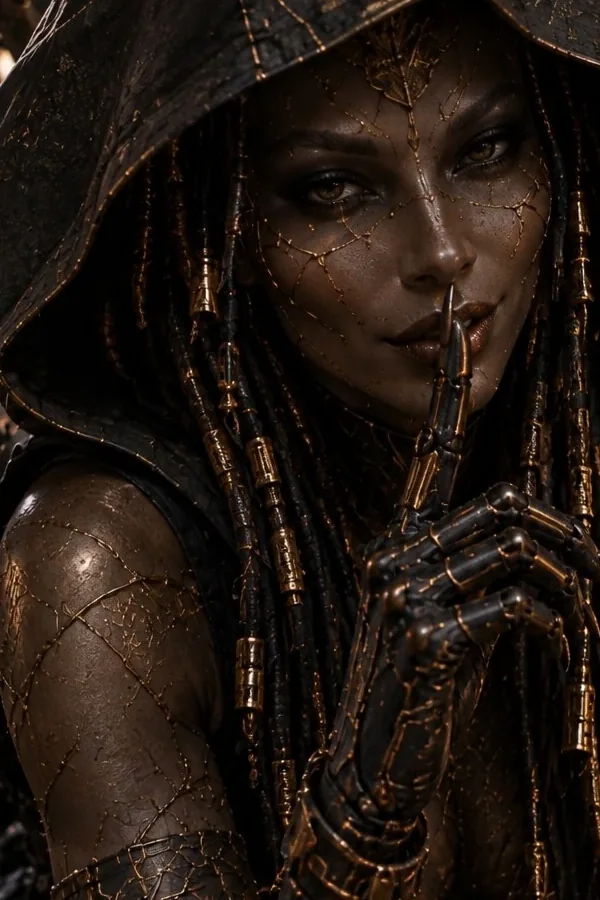
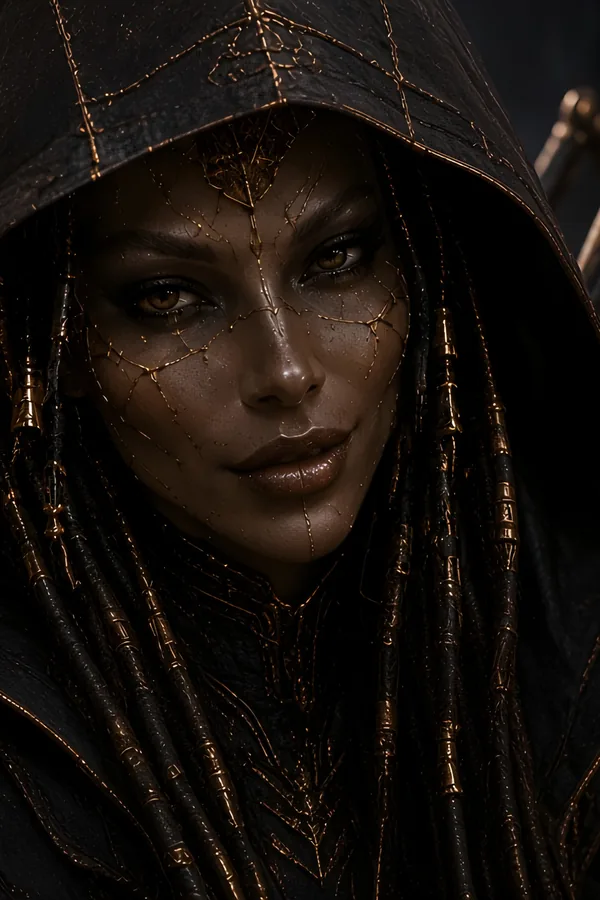
Tools drawer: pinned footer, no overlap, no gap; HD v2 Uttu portrait in the studio (#133)
* Tiroir des outils : pied fixe en bas (tâches, U*TTU, langue), liste qui défile seule, plus de trou après « Panorama 360° » ; portrait HD v2 d'Uttu dans le studio

- Tiroir (< 1024 px) : colonne flex tête / liste (overflow auto, marge basse) / pied avec fond et filet ; plus aucun chevauchement. Règle .u-drawer héritée (inset: 0) retirée : le tiroir s'ouvre à droite, sous le bouton menu.
- Menu Créer dans le tiroir : une famille = une liste (plus de colonne vide avec titre insécable).
- Accueil du studio : portrait HD v2 (sans doigt), 600/960 px en hauteur et 600/1200 px en large, srcset.
- e2e/tiroir-outils.spec.ts : 390×844, 844×390, 880×1024, haut/milieu/bas, cibles 44 px.

* Tiroir des outils : retour à gauche (glissement depuis la gauche), pied fixe et liste inchangés ; e2e vérifie le côté

diff --git a/src/components/app/app.css b/src/components/app/app.css
@@ -46,7 +46,6 @@
 .u-mark { display: inline-flex; align-items: center; gap: 10px; min-height: 44px; color: var(--fg); }
 .u-top-tools { display: flex; align-items: center; gap: 6px; min-width: 0; }
 .u-tool-short { display: none; }
-.u-drawer-lang { display: none; }
 @media (max-width: 799px) {
   .u-top { flex-wrap: nowrap; gap: 8px; padding: 6px 10px; min-height: 56px; }
   .u-mark { gap: 6px; flex: 0 0 auto; }
@@ -57,7 +56,6 @@
   .u-tool-label, .u-tool-full { display: none; }
   .u-tool-short { display: inline; letter-spacing: .04em; }
   .u-coffre, .u-credit { min-width: 44px; justify-content: center; padding-inline: 10px; }
-  .u-drawer-lang { display: block; }
 }
 .u-credit { display: inline-flex; align-items: center; gap: 6px; min-height: 44px; padding: 8px 14px; border: 1px solid var(--u-line-strong); border-radius: var(--radius-control); background: transparent; }
 .u-credit strong { font: 600 14px/1 var(--font-mono); font-variant-numeric: tabular-nums; color: var(--fg); }
@@ -365,7 +363,6 @@
   .u-head h1 { font-size: 44px; }
   .u-board { grid-template-columns: repeat(auto-fit, minmax(min(100%, 300px), 1fr)); }
   .u-prise-grid { grid-template-columns: minmax(180px, 280px) minmax(0, 1fr); align-items: start; }
-  .u-drawer-panel { width: min(460px, 100%); margin-left: auto; height: 100%; max-height: 100%; border-radius: 0; border-left: 1px solid var(--u-line); }
   .u-grid { grid-template-columns: repeat(4, minmax(0, 1fr)); }
   .u-plateau { display: none; }
   .u-rail-coffre { display: none; }
@@ -401,11 +398,6 @@
 .u-person, .u-place { display: grid; gap: 10px; align-content: start; padding: 12px; border: 1px solid var(--u-line); border-radius: 12px; background: var(--surface); }
 .u-place[data-selected="true"] { border-color: var(--u-gold); }
 .u-pick-row small { color: var(--u-sand); font-size: 12px; letter-spacing: .08em; text-transform: uppercase; }
-.u-drawer { position: fixed; inset: 0; z-index: 70; display: flex; }
-.u-drawer-back { flex: 1 1 auto; min-width: 0; min-height: 44px; border: 0; background: rgba(15, 15, 17, .62); }
-.u-drawer-panel { width: 100%; height: 100%; overflow: auto; padding: 16px 18px calc(24px + var(--u-safe)); background: var(--surface); border-left: 1px solid var(--u-line); }
-.u-drawer-body { display: grid; gap: 22px; }
-.u-drawer-body h3 { margin: 0; }
 .u-decor-grid { display: grid; grid-template-columns: repeat(2, minmax(0, 1fr)); gap: 12px; }
 .u-decor-card { position: relative; display: grid; gap: 8px; align-content: start; padding: 8px; border: 1px solid var(--u-line); border-radius: 12px; background: var(--surface); }
 .u-decor-card[data-selected="true"] { border-color: var(--u-gold); box-shadow: inset 0 0 0 1px var(--u-gold); }
@@ -1583,8 +1575,12 @@ button.u-outil-card:focus-visible { outline: 2px solid var(--fg); outline-offset
 .u-palette-body a, .u-assistant-list a { display: grid; gap: 2px; min-height: 44px; padding: 8px 10px; border-radius: 10px; color: var(--fg); text-decoration: none; }
 .u-palette-body a:hover, .u-palette-body a:focus-visible, .u-assistant-list a:hover { background: var(--hover); outline: none; }
 .u-palette-body a span, .u-assistant-list a span { font-size: 12px; color: var(--fg-2); }
-.u-drawer { position: absolute; top: 0; right: 0; bottom: 0; width: min(360px, 92vw); display: grid; grid-template-rows: auto minmax(0, 1fr) auto; gap: 8px; padding: 12px; background: var(--bg); border-left: 1px solid var(--u-line); overflow-y: auto; }
-.u-drawer-head { display: flex; align-items: flex-start; justify-content: space-between; gap: 8px; }
+/* Drawer (below 1024 px), on the left: fixed head, the list scrolls on its own, the footer stays pinned at the bottom and never covers the list. */
+.u-drawer { position: absolute; top: 0; left: 0; right: auto; bottom: 0; width: min(360px, 92vw); height: 100%; display: flex; flex-direction: column; background: var(--bg); border-right: 1px solid var(--u-line); overflow: hidden; animation: u-drawer-in .22s ease-out both; }
+@keyframes u-drawer-in { from { transform: translateX(-100%); } to { transform: none; } }
+@media (prefers-reduced-motion: reduce) { .u-drawer { animation: none; } }
+.u-drawer-head { flex: 0 0 auto; display: flex; align-items: flex-start; justify-content: space-between; gap: 8px; padding: 12px 12px 4px; }
+.u-drawer-nav { flex: 1 1 auto; min-height: 0; overflow-y: auto; overscroll-behavior: contain; -webkit-overflow-scrolling: touch; padding: 4px 12px 32px; scroll-padding-bottom: 32px; }
 .u-drawer-head .u-proj { flex: 1 1 auto; }
 .u-drawer-nav .u-top-links { flex-direction: column; align-items: stretch; }
 .u-drawer-nav .u-top-links > li > a, .u-drawer-nav .u-dd-toggle { width: 100%; justify-content: space-between; font-size: 16px; }
@@ -1597,8 +1593,13 @@ button.u-outil-card:focus-visible { outline: 2px solid var(--fg); outline-offset
 .u-lien.u-fold .u-avance-body { display: grid; gap: 10px; padding-bottom: 12px; }
 .u-lien.u-fold .u-avance-body[hidden] { display: none; }
 .u-empty .u-primary { min-height: 44px; display: inline-flex; align-items: center; }
-.u-drawer-foot { display: grid; gap: 8px; }
-.u-drawer-foot .u-secondary { min-height: 44px; }
+.u-drawer-foot { flex: 0 0 auto; position: relative; z-index: 1; display: flex; align-items: center; gap: 8px; padding: 10px 12px calc(10px + var(--u-safe)); border-top: 1px solid var(--u-line); background: var(--surface); }
+.u-drawer-foot .u-secondary { flex: 1 1 auto; min-width: 0; min-height: 44px; }
+.u-drawer-foot .u-tasks { flex: 0 0 auto; }
+.u-drawer-foot .u-tasks .u-top-icon { min-width: 44px; min-height: 44px; }
+.u-drawer-foot .u-tasks .u-tool-label { display: none; }
+.u-drawer-foot .u-lang { flex: 0 0 auto; }
+.u-drawer-foot .u-tasks-panel { top: auto; bottom: calc(100% + 8px); left: 0; right: auto; width: min(336px, calc(92vw - 24px)); max-height: 60dvh; }
 /* Assistant on the right, on every page. From 1600 px the page makes room for it;
    below, it floats over the page (closable) so CAST, the gallery and the stages are never squeezed or cut. */
 .u-assistant { position: fixed; z-index: 45; top: 64px; right: 0; bottom: 0; width: 320px; display: flex; flex-direction: column; gap: 12px; padding: 14px; border-left: 1px solid var(--u-line); background: var(--bg); overflow-y: auto; }

diff --git a/e2e/tiroir-outils.spec.ts b/e2e/tiroir-outils.spec.ts
@@ -1,0 +1,55 @@
+import { expect, test } from "@playwright/test";
+
+// The burger drawer (below 1024 px), on the left: the tool list scrolls on its own, the footer
+// (tasks, U*TTU, language) stays pinned at the bottom and never covers a tool,
+// and a family is one list with no empty heading gap.
+
+const SIZES = [[390, 844], [844, 390], [880, 1024]] as const;
+
+for (const [width, height] of SIZES) {
+  test(`tiroir ${width}×${height} : pied fixe, liste qui défile, aucun chevauchement`, async ({ page }) => {
+    await page.setViewportSize({ width, height });
+    await page.emulateMedia({ reducedMotion: "reduce" });
+    await page.goto("/studio");
+    await page.locator("[data-top-burger]").click();
+    const drawer = page.locator("[data-drawer]");
+    await drawer.locator("[data-top-menu=creer]").click();
+    await expect(drawer.locator("[data-mega-outil]").first()).toBeVisible();
+    await expect(drawer.locator(".u-mega h2").filter({ hasText: /^\s*$/ })).toHaveCount(0);
+    for (const pos of ["top", "middle", "bottom"] as const) {
+      const result = await drawer.evaluate((root, pos) => {
+        const nav = root.querySelector<HTMLElement>(".u-drawer-nav")!;
+        const max = nav.scrollHeight - nav.clientHeight;
+        nav.scrollTop = pos === "top" ? 0 : pos === "middle" ? max / 2 : max;
+        const box = nav.getBoundingClientRect();
+        const foot = root.querySelector(".u-drawer-foot")!.getBoundingClientRect();
+        const drawerBox = root.getBoundingClientRect();
+        const items = [...nav.querySelectorAll("a, button")].map(item => item.getBoundingClientRect());
+        return {
+          scrolls: max > 0 && getComputedStyle(nav).overflowY === "auto",
+          navEndsAtFoot: Math.abs(box.bottom - foot.top) <= 1,
+          footAtBottom: Math.abs(foot.bottom - drawerBox.bottom) <= 1 && foot.bottom <= innerHeight + 1,
+          lastClear: items.at(-1)!.bottom <= foot.top,
+          targets: [...root.querySelectorAll("a, button, select")].map(item => item.getBoundingClientRect()).filter(r => r.width && r.height).every(r => r.height >= 44 && r.width >= 44),
+          overflow: document.documentElement.scrollWidth > innerWidth,
+          onLeft: Math.abs(drawerBox.left) <= 1 && drawerBox.right < innerWidth - 1,
+        };
+      }, pos);
+      expect(result.scrolls).toBe(true);
+      expect(result.navEndsAtFoot).toBe(true);
+      expect(result.footAtBottom).toBe(true);
+      if (pos === "bottom") expect(result.lastClear).toBe(true);
+      expect(result.targets).toBe(true);
+      expect(result.overflow).toBe(false);
+      expect(result.onLeft).toBe(true);
+    }
+    for (const sel of ["[data-top-tasks]", "[data-drawer-assistant]", ".u-drawer-foot select"]) await expect(drawer.locator(sel)).toBeInViewport({ ratio: 1 });
+  });
+}
+
+test("accueil du studio : portrait HD v2 d'Uttu, en srcset", async ({ page }) => {
+  await page.goto("/studio");
+  const img = page.locator("[data-entry-uttu] img");
+  await expect(img).toHaveAttribute("srcset", /uttu-portrait-960\.webp 960w/);
+  await expect(page.locator("[data-entry-uttu] source")).toHaveAttribute("srcset", /uttu-portrait-large-1200\.webp 1200w/);
+});

diff --git a/src/components/app/top-bar.tsx b/src/components/app/top-bar.tsx
@@ -124,7 +124,7 @@ function MainNav({ place, drawer = false, onPick }: { place: Place; drawer?: boo
   const current = (here: Place) => place === here ? "page" as const : undefined;
   return <ul className="u-top-links" role="list">
     <li><a href={assetPath("/")} onClick={onPick} aria-current={current("accueil")}>{t("top.home")}</a></li>
-    <li><Dropdown id="creer" label={t("top.create")} current={place === "creer"} drawer={drawer}>{close => <CreerMenu onPick={() => { close(); onPick?.(); }} />}</Dropdown></li>
+    <li><Dropdown id="creer" label={t("top.create")} current={place === "creer"} drawer={drawer}>{close => <CreerMenu drawer={drawer} onPick={() => { close(); onPick?.(); }} />}</Dropdown></li>
     <li><Dropdown id="film" label={t("top.film")} current={place === "realiser" || place === "montage"} drawer={drawer}>{close => <FilmMenu onPick={() => { close(); onPick?.(); }} />}</Dropdown></li>
     <li><Dropdown id="creations" label={t("top.creations")} current={place === "creations"} drawer={drawer}>{close => <CreationsMenu onPick={() => { close(); onPick?.(); }} />}</Dropdown></li>
   </ul>;
@@ -151,7 +151,7 @@ function FilmMenu({ onPick }: { onPick(): void }) {
   </ul>;
 }
 
-function CreerMenu({ onPick }: { onPick(): void }) {
+function CreerMenu({ onPick, drawer = false }: { onPick(): void; drawer?: boolean }) {
   const { t } = useI18n();
   const { prefs } = useStudio();
   const cards = outilsPublics(prefs);
@@ -159,7 +159,8 @@ function CreerMenu({ onPick }: { onPick(): void }) {
     <div className="u-mega-cols">
       {FAMILLES.flatMap(fam => {
         const items = cards.filter(item => familleVitrine(item) === fam);
-        return colonnes(items, 8).map((col, index) => <section key={`${fam}-${index}`} className="u-mega-col" aria-label={index === 0 ? t(`outils.fam.${fam}`) : undefined}>
+        // In the drawer a family is one list: split columns would leave an empty heading gap.
+        return colonnes(items, drawer ? Math.max(items.length, 1) : 8).map((col, index) => <section key={`${fam}-${index}`} className="u-mega-col" aria-label={index === 0 ? t(`outils.fam.${fam}`) : undefined}>
           <h2>{index === 0 ? t(`outils.fam.${fam}`) : "\u00a0"}</h2>
           <ul role="list">
             {col.map(item => <li key={item.id}><MegaItem outil={item} onPick={onPick} /></li>)}

diff --git a/src/components/app/studio-entry.tsx b/src/components/app/studio-entry.tsx
@@ -10,7 +10,7 @@ import { useI18n } from "@/components/i18n/provider";
 import { formatCredits } from "@/lib/credits";
 import { FAMILLES, cherche, familleVitrine, intentDe, outilParId, outilRow, outilsPublics, type Famille, type Outil } from "@/lib/outils/catalogue";
 import { routePrompt } from "@/lib/outils/route";
-import { REPERAGE_ID, UTTU_PORTRAIT, UTTU_PORTRAIT_WIDE, vignette } from "@/lib/outils/vignettes";
+import { REPERAGE_ID, UTTU_PORTRAIT, UTTU_PORTRAIT_HD, UTTU_PORTRAIT_WIDE, UTTU_PORTRAIT_WIDE_HD, vignette } from "@/lib/outils/vignettes";
 import { assetPath } from "@/lib/site";
 import { FamilyIcon, scrollToFamily } from "./studio-nav";
 import { useStudio } from "./studio-session";
@@ -111,8 +111,8 @@ export function StudioHome() {
       </header>
       <figure className="u-hero-uttu" data-entry-uttu="">
         <picture>
-          <source media="(max-width: 899px)" srcSet={assetPath(UTTU_PORTRAIT_WIDE)} width={600} height={375} />
-          <img src={assetPath(UTTU_PORTRAIT)} alt={t("entry.uttuAlt")} width={600} height={900} decoding="async" fetchPriority="high" />
+          <source media="(max-width: 899px)" srcSet={`${assetPath(UTTU_PORTRAIT_WIDE)} 600w, ${assetPath(UTTU_PORTRAIT_WIDE_HD)} 1200w`} sizes="100vw" width={600} height={375} />
+          <img src={assetPath(UTTU_PORTRAIT)} srcSet={`${assetPath(UTTU_PORTRAIT)} 600w, ${assetPath(UTTU_PORTRAIT_HD)} 960w`} sizes="(min-width: 900px) 420px, 100vw" alt={t("entry.uttuAlt")} width={600} height={900} decoding="async" fetchPriority="high" />
         </picture>
         <figcaption>Uttu</figcaption>
       </figure>

diff --git a/src/lib/outils/vignettes.ts b/src/lib/outils/vignettes.ts
@@ -19,5 +19,8 @@ export function vignette(id: string): string | null {
 }
 
 /** Uttu, the studio's character: the canon portrait, cropped so only she is in frame. */
+// Uttu, HD portrait v2 (2026-10-23): 600 × 900 and 960 × 1440 upright, 600 × 375 and 1200 × 750 wide.
 export const UTTU_PORTRAIT = "/images/uttu-portrait.webp";
+export const UTTU_PORTRAIT_HD = "/images/uttu-portrait-960.webp";
 export const UTTU_PORTRAIT_WIDE = "/images/uttu-portrait-large.webp";
+export const UTTU_PORTRAIT_WIDE_HD = "/images/uttu-portrait-large-1200.webp";
